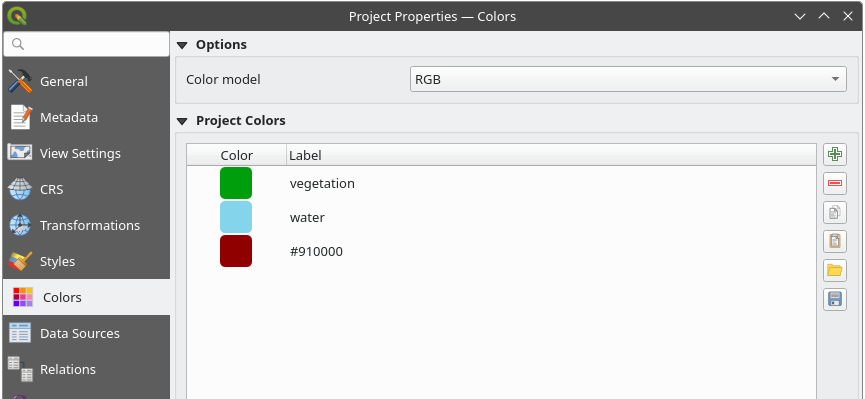
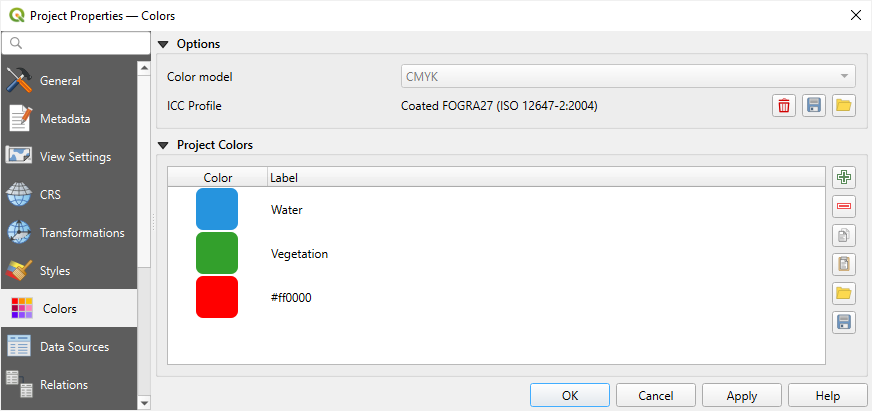
CMYK Properties Widget (#9578)
* CMYK Properties Widget

* Text and screenshot fix

* Screenshot - light (default) theme

diff --git a/docs/user_manual/introduction/qgis_configuration.rst b/docs/user_manual/introduction/qgis_configuration.rst
@@ -1943,6 +1943,15 @@ i.e. whether selecting a color should by default be defined as ``RGB`` or ``CMYK
 Any color defined in a different color model than the one specified here
 will be converted to this color model when exporting a layout.
 
+Additionally, an option is available for selecting an :guilabel:`ICC Profile`
+which allows you to |fileOpen| :guilabel:`Load` a specific ICC profile that defines the color space
+for your project. After you load the ICC profile, you can choose to |fileSave| :guilabel:`Save ICC Profile`
+to a file on disk or to |deleteSelected| :guilabel:`Remove selected ICC Profile`.
+Once applied, QGIS will enforce the selected color model to ensure
+consistent color representation.
+
+.. note:: Note that the :guilabel:`ICC Profile` option
+  will only be visible if QGIS is built with Qt 6.8.0 or higher.
 
 There is also an additional section where you can define specific colors for the
 running project. Like the :ref:`global colors <colors_options>`, you can:
@@ -2788,6 +2797,8 @@ in the QGIS user profile.
 .. |crs| image:: /static/common/CRS.png
    :width: 1.5em
 .. |customProjection| image:: /static/common/mActionCustomProjection.png
+   :width: 1.5em
+.. |deleteSelected| image:: /static/common/mActionDeleteSelected.png
    :width: 1.5em
 .. |editCopy| image:: /static/common/mActionEditCopy.png
    :width: 1.5em
